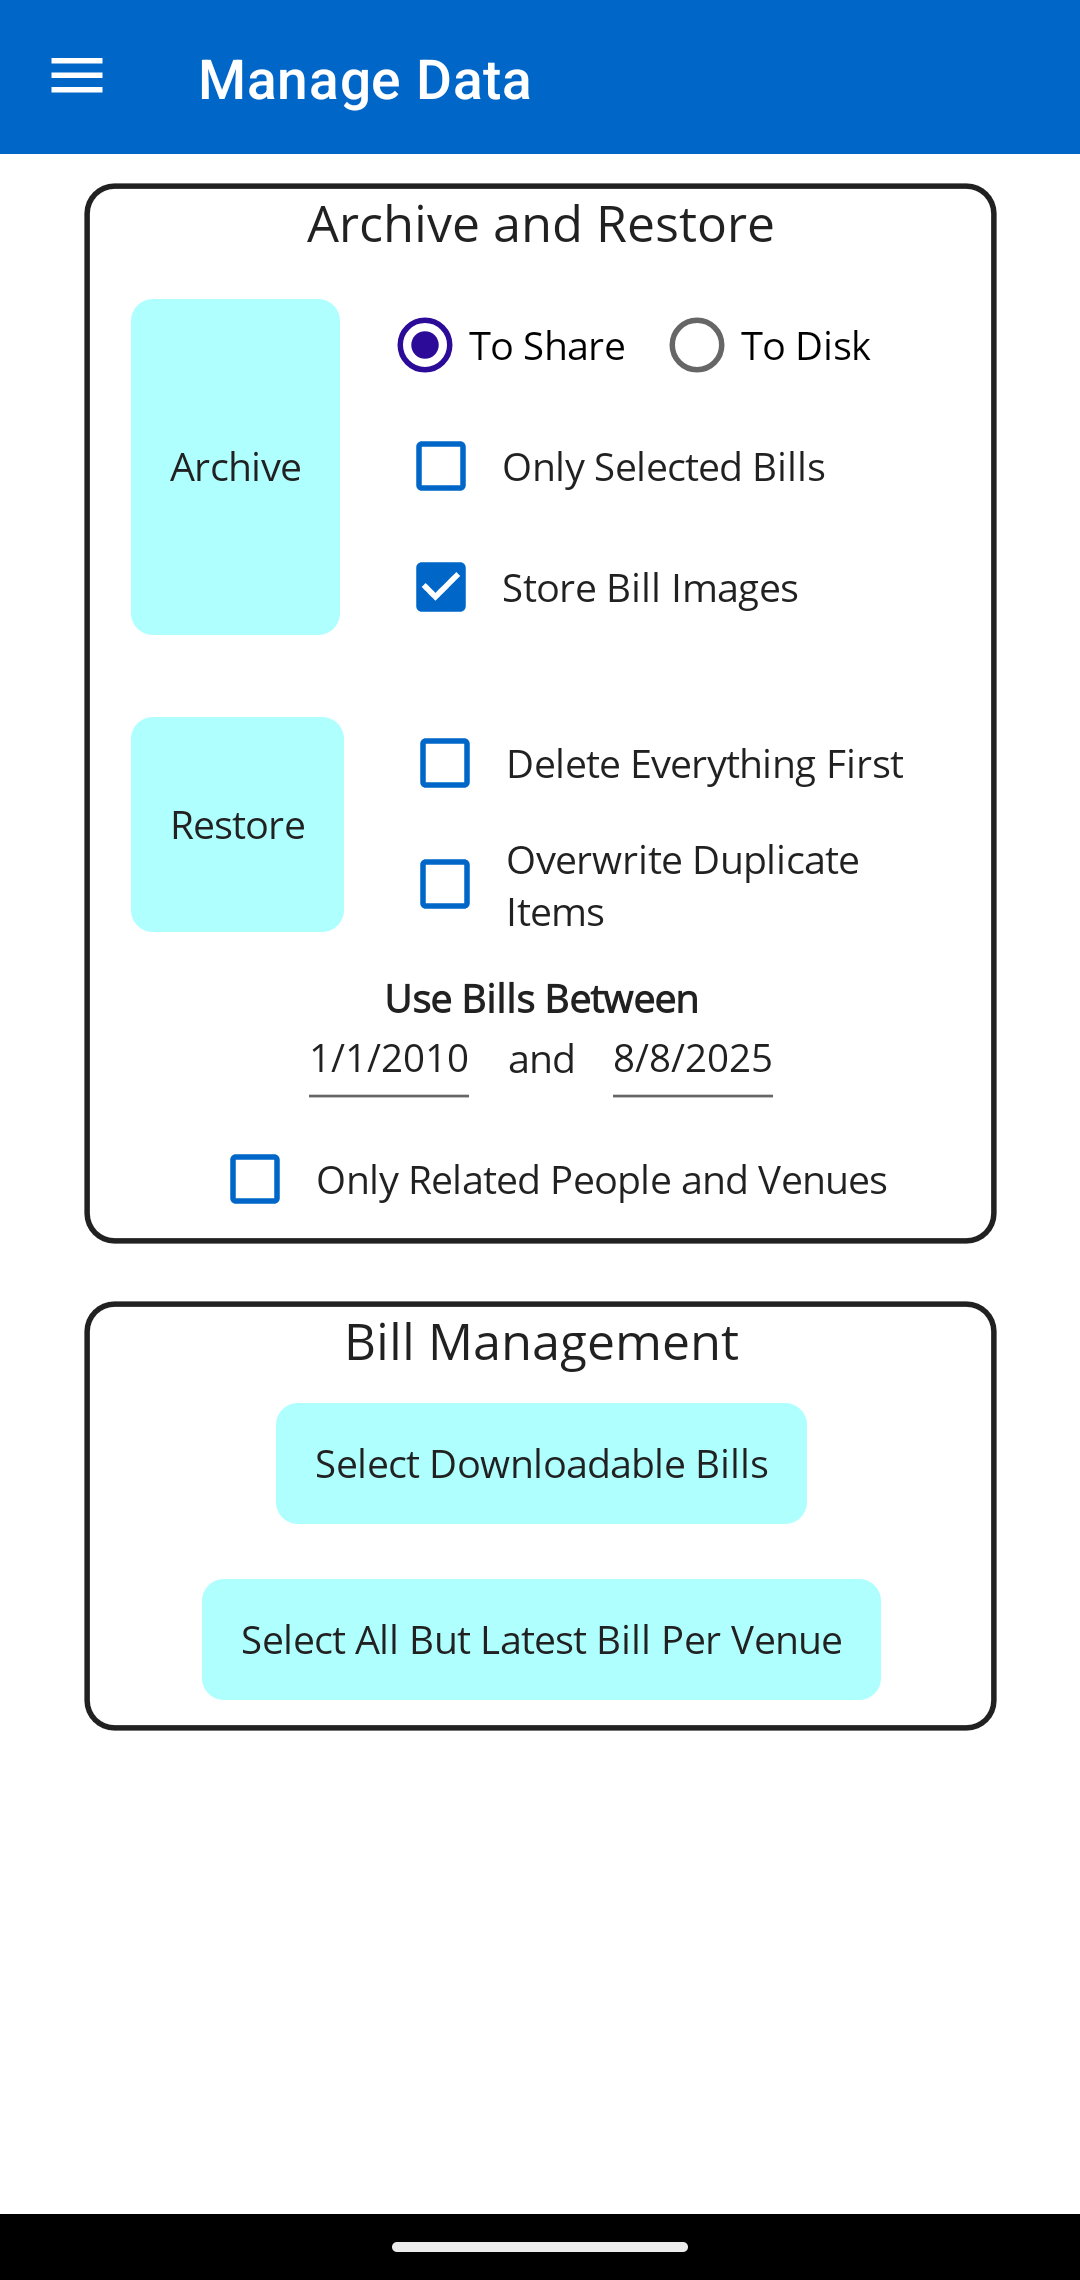
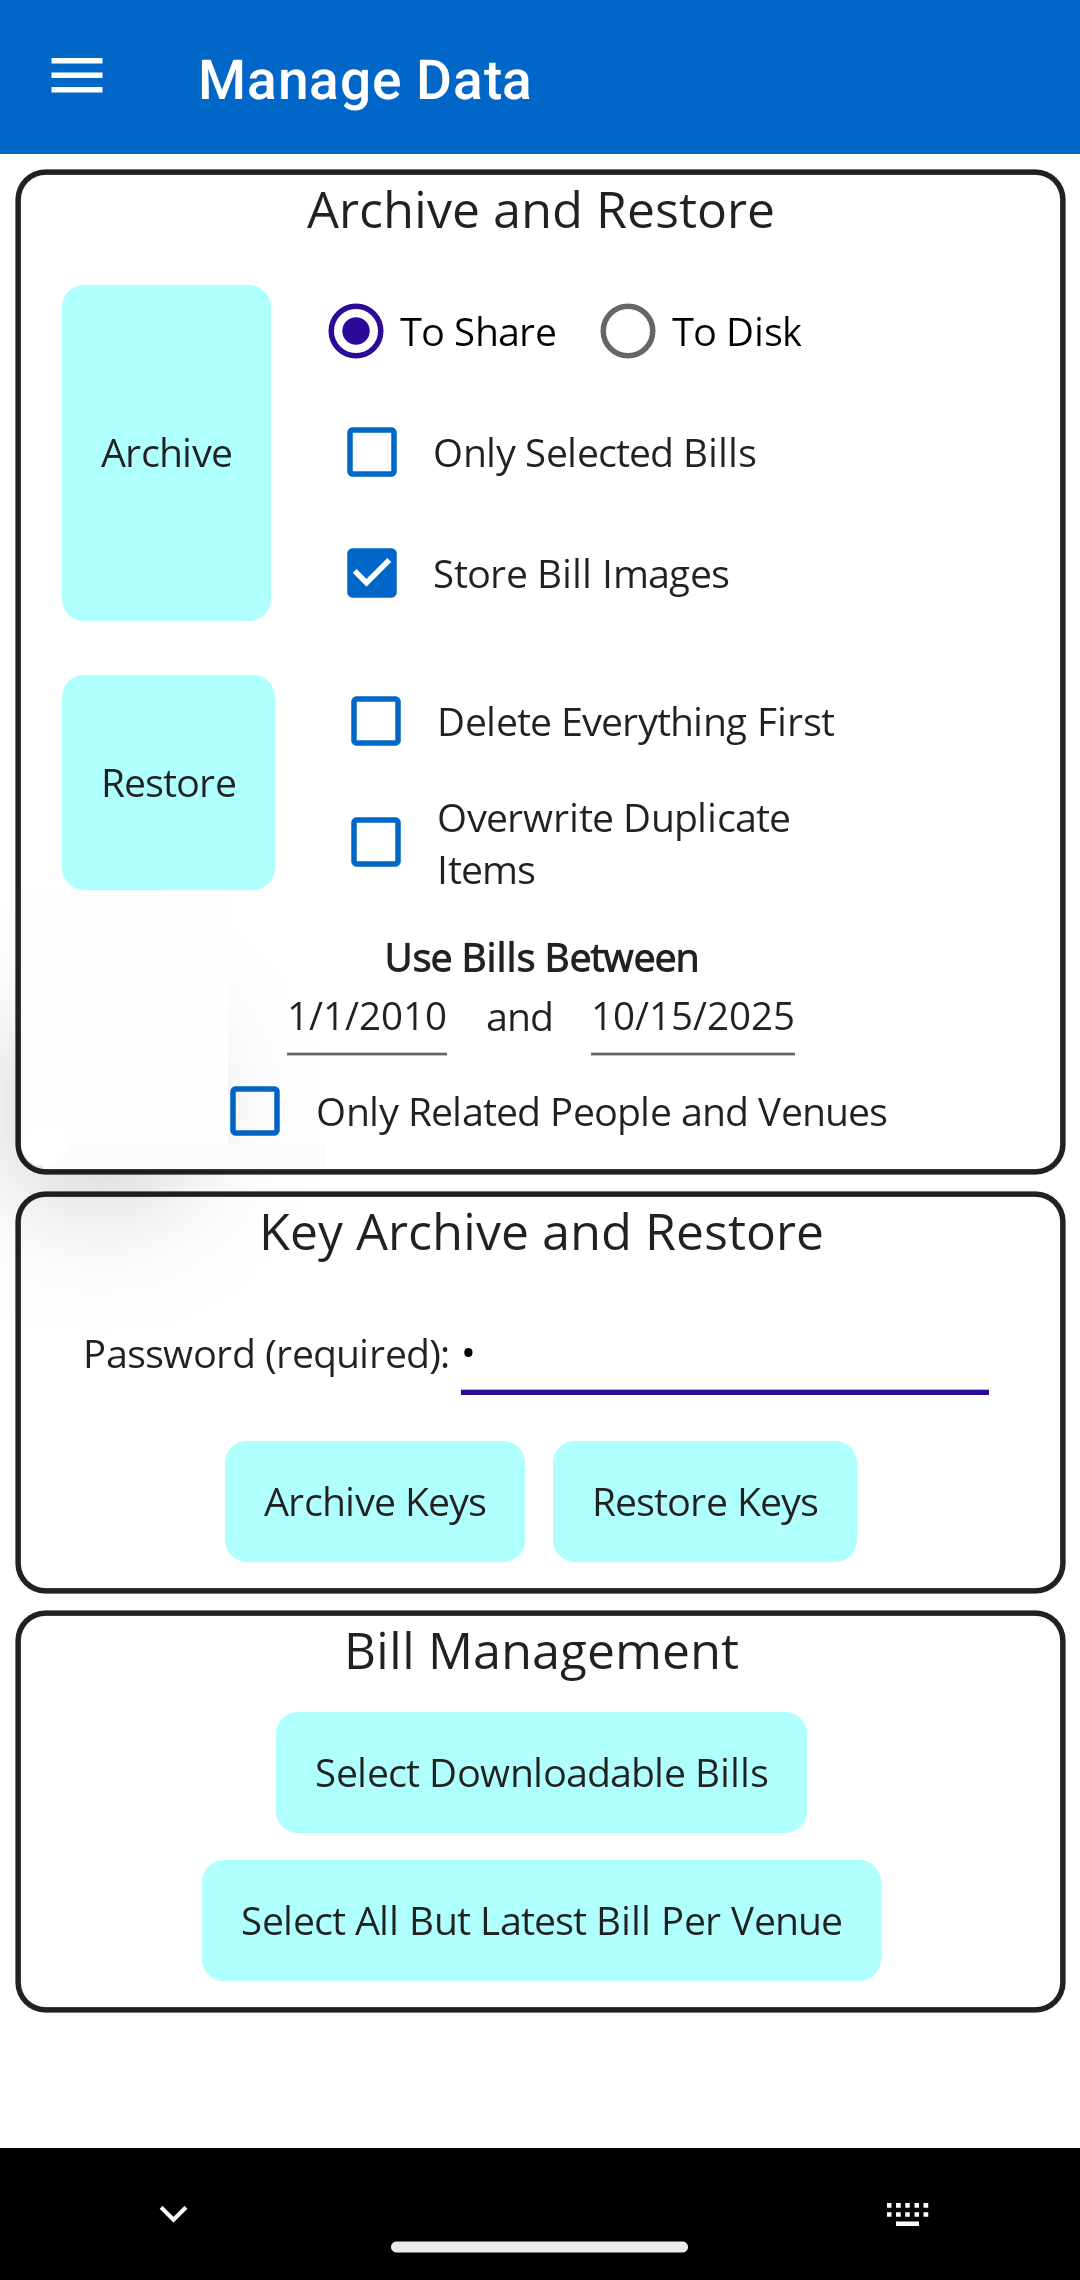
Add Help for Encryption

Changed region(s): [[0.0, 0.0623, 1.0, 0.8719], [0.0, 0.9342, 1.0, 0.9965], [0.8861, 0.7474, 0.9167, 0.7785]]

diff --git a/web/divisibill/settingsglossary.html b/web/divisibill/settingsglossary.html
@@ -30,6 +30,10 @@
 <p>With this switch set bill images will be backed up to the cloud along with the bill data. If this switch is not set, only the bill data will be backed up. Note that images are never backed up in the Basic Edition of DivisiBill.</p>
 <h2 id="images-wifi">Images WiFi</h2>
 <p>This switch is available only in the Professional Edition and is used only when &quot;Images Backup&quot; is set. If you turn on this switch, DivisiBill will automatically back up bill images to the cloud only when a WiFi connection is available to minimize the use of mobile data. If this switch is not set and image backup is enabled, image backup operations will occur whenever Internet connectivity is available.</p>
+<h2 id="change-password">Change Password</h2>
+<p>Tap this button to change the password used to encrypt data stored in the cloud. This button is only visible if you are using the Professional Edition and the cloud is available. If a password is not currently set the button is entitled &quot;Set Password&quot;. Note that changing the password does not prevent you from reading any previously stored cloud data, since that data was encrypted with a key based on the old password and that key will be retained. Subsequent data stored in the cloud will be encrypted using the new password.</p>
+<h2 id="clear-password">Clear Password</h2>
+<p>Tap this button to clear the password used to encrypt data stored in the cloud and stop encrypting uploaded data. This button is only visible if you are using the Professional Edition, the cloud is available, and a password is currently set. Use this button when you have forgotten the current password and want to clear it so you can set a new one. Note that clearing the password does not prevent you from reading any previously stored cloud data, since that data is still encrypted with a key based on the old password and that key will be retained.</p>
 <h2 id="licensing-help">Licensing Help</h2>
 <p>Tap here to open up the <a href="licensing.html">licensing help</a> and learn more about Pro and OCR licenses.</p>
 <h2 id="modify-button">Modify Button</h2>

diff --git a/web/divisibill/datamanagementglossary.html b/web/divisibill/datamanagementglossary.html
@@ -26,6 +26,12 @@
 <p>Select &quot;Overwrite Duplicate Items&quot; to overwrite items of the same name that already exist when a restore is performed.</p>
 <h2 id="use-bills-between">Use Bills Between</h2>
 <p>The Archive and Restore buttons operate only on bills in the specified date range (which by default is every bill to date).</p>
+<h2 id="key-password">Key Password</h2>
+<p>The password to be used to archive or restore keys. Until this is set the &quot;Archive Keys&quot; and &quot;Restore Keys&quot; buttons are disabled.</p>
+<h2 id="archive-keys">Archive Keys</h2>
+<p>Tap this to create an archive file containing all the locally stored Keys currently saved. A cloud storage app like Microsoft OneDrive or Google Drive lets you store archives in the cloud for free. If you attempt to archive with no keys selected the app produces an error message instead of creating an empty archive.</p>
+<h2 id="restore-keys">Restore Keys</h2>
+<p>Tap this to locate an archive file previously created by the &quot;Archive Keys&quot; action and restore its contents.</p>
 <h2 id="only-related">Only Related</h2>
 <p>Changes the behavior of the Archive and Restore buttons so they only include those People and Venues that are used in one or more of the bills being archived or restored.</p>
 <h2 id="select-downloadable-bills">Select Downloadable Bills</h2>

diff --git a/web/divisibill/settingsglossary.md b/web/divisibill/settingsglossary.md
@@ -46,6 +46,14 @@ With this switch set bill images will be backed up to the cloud along with the b
 
 This switch is available only in the Professional Edition and is used only when "Images Backup" is set. If you turn on this switch, DivisiBill will automatically back up bill images to the cloud only when a WiFi connection is available to minimize the use of mobile data. If this switch is not set and image backup is enabled, image backup operations will occur whenever Internet connectivity is available.
 
+## Change Password
+
+Tap this button to change the password used to encrypt data stored in the cloud. This button is only visible if you are using the Professional Edition and the cloud is available. If a password is not currently set the button is entitled "Set Password". Note that changing the password does not prevent you from reading any previously stored cloud data, since that data was encrypted with a key based on the old password and that key will be retained. Subsequent data stored in the cloud will be encrypted using the new password.
+
+## Clear Password
+
+Tap this button to clear the password used to encrypt data stored in the cloud and stop encrypting uploaded data. This button is only visible if you are using the Professional Edition, the cloud is available, and a password is currently set. Use this button when you have forgotten the current password and want to clear it so you can set a new one. Note that clearing the password does not prevent you from reading any previously stored cloud data, since that data is still encrypted with a key based on the old password and that key will be retained.
+
 ## Licensing Help
 
 Tap here to open up the [licensing help](licensing.html) and learn more about Pro and OCR licenses.

diff --git a/web/divisibill/datamanagementglossary.md b/web/divisibill/datamanagementglossary.md
@@ -38,6 +38,18 @@ Select "Overwrite Duplicate Items" to overwrite items of the same name that alre
 
 The Archive and Restore buttons operate only on bills in the specified date range (which by default is every bill to date).
 
+## Key Password
+
+The password to be used to archive or restore keys. Until this is set the "Archive Keys" and "Restore Keys" buttons are disabled.
+
+## Archive Keys
+
+Tap this to create an archive file containing all the locally stored Keys currently saved. A cloud storage app like Microsoft OneDrive or Google Drive lets you store archives in the cloud for free. If you attempt to archive with no keys selected the app produces an error message instead of creating an empty archive.
+
+## Restore Keys
+
+Tap this to locate an archive file previously created by the "Archive Keys" action and restore its contents.
+
 ## Only Related
 
 Changes the behavior of the Archive and Restore buttons so they only include those People and Venues that are used in one or more of the bills being archived or restored.
